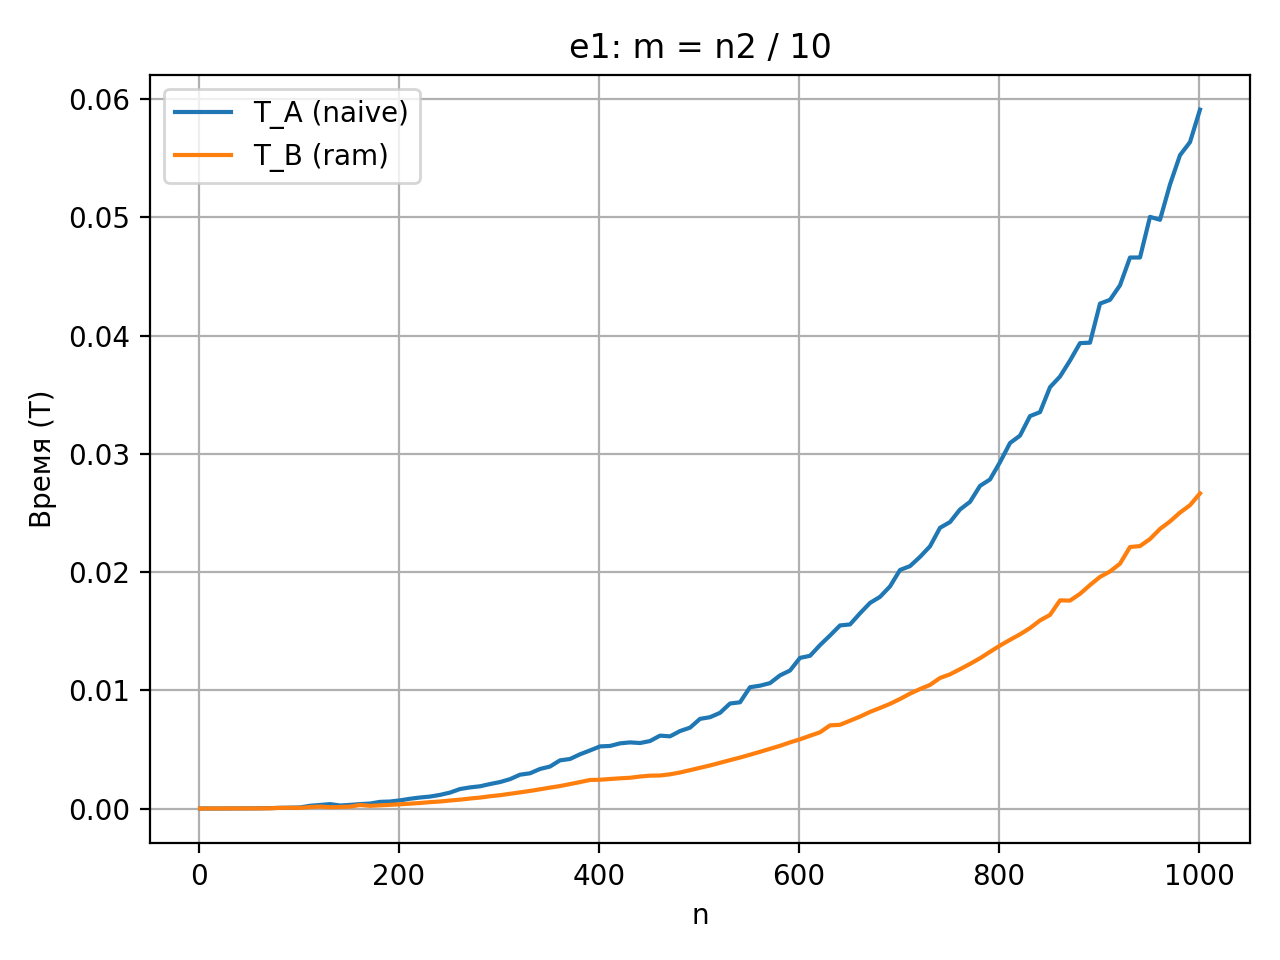
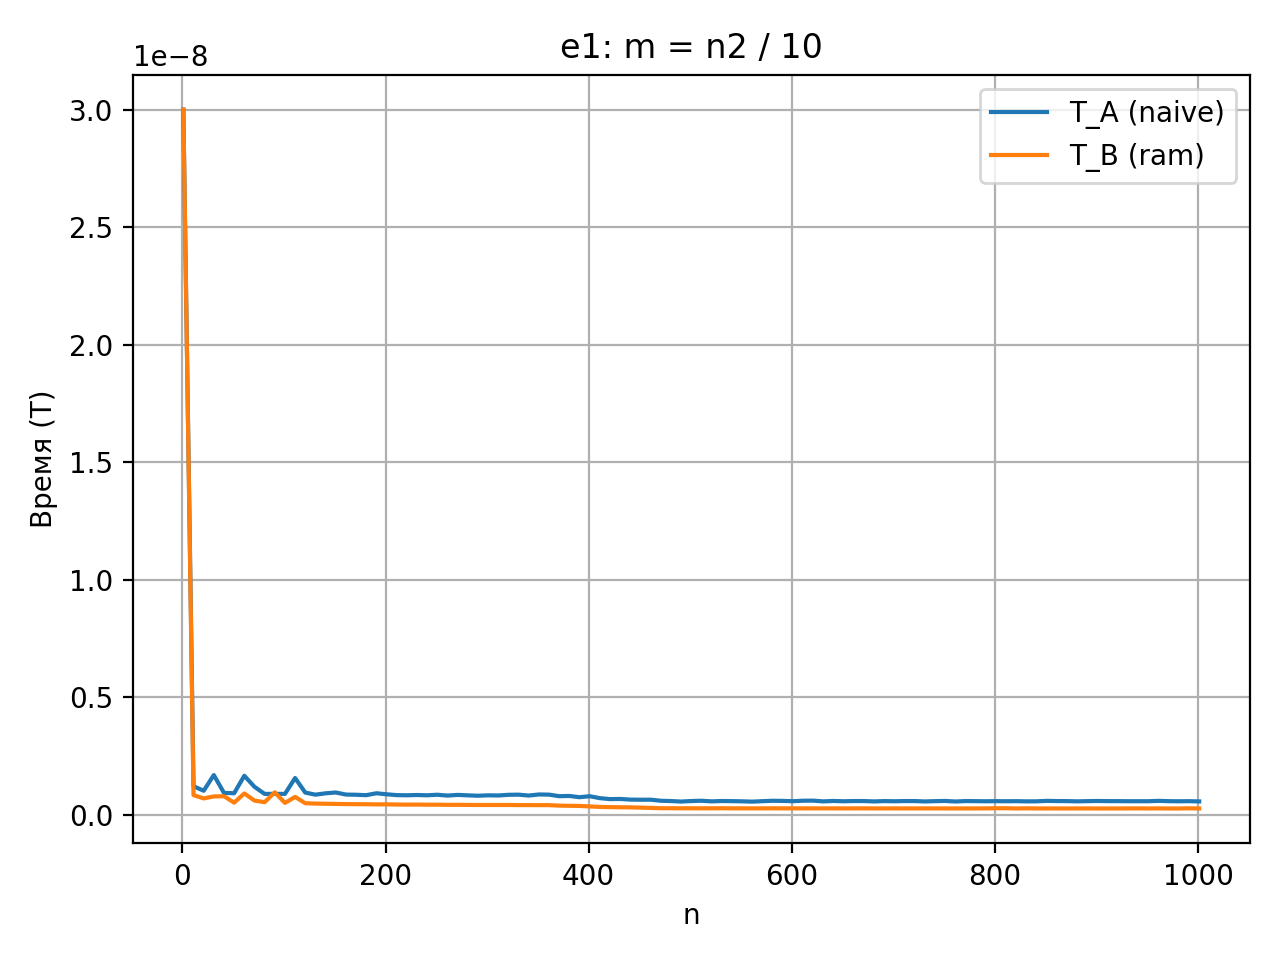
test runner done 2

diff --git a/tools/test_runner.py b/tools/test_runner.py
@@ -55,8 +55,10 @@ def run_experiment(name: str, m_func) -> Tuple[List[int], List[float], List[floa
         try:
             naive, ram = run_test_program(EXE_PATH_TESTS, n, m)
             n_vals.append(n)
-            t_naive.append(naive)
-            t_ram.append(ram)
+            t_naive.append(naive / max(1, (n * m)))
+            #t_naive.append(naive)
+            t_ram.append(ram / max(1, (n * m)))
+            #t_ram.append(ram)
             print(f"{name}: n={n}, m={m}, T_A={naive:.6f}, T_B={ram:.6f}")
         except Exception as e:
             print(f"Ошибка при n={n}, m={m}: {e}")
@@ -115,9 +117,9 @@ def experiment_4():
     plot_results(n_vals, "Кол-во вершин (N)", {'N_E (edges)': n_edges,}, "e4: one comp")
 
 def main():
-    #experiment_1()
-    #experiment_2()
-    #experiment_3()
+    experiment_1()
+    experiment_2()
+    experiment_3()
     experiment_4()
     
 if __name__ == '__main__':

diff --git a/include/ram_algorithm.h b/include/ram_algorithm.h
@@ -19,7 +19,10 @@ public:
     }
 
     void addEdge(const Graph::Edge& e) {
-        mDsu.merge(mDsu.get(e.first), mDsu.get(e.second));
+        size_t n1 = mDsu.get(e.first);
+        size_t n2 = mDsu.get(e.second);
+
+        mDsu.merge(n1, n2);
     }
 
     void run(const Graph& g) {
